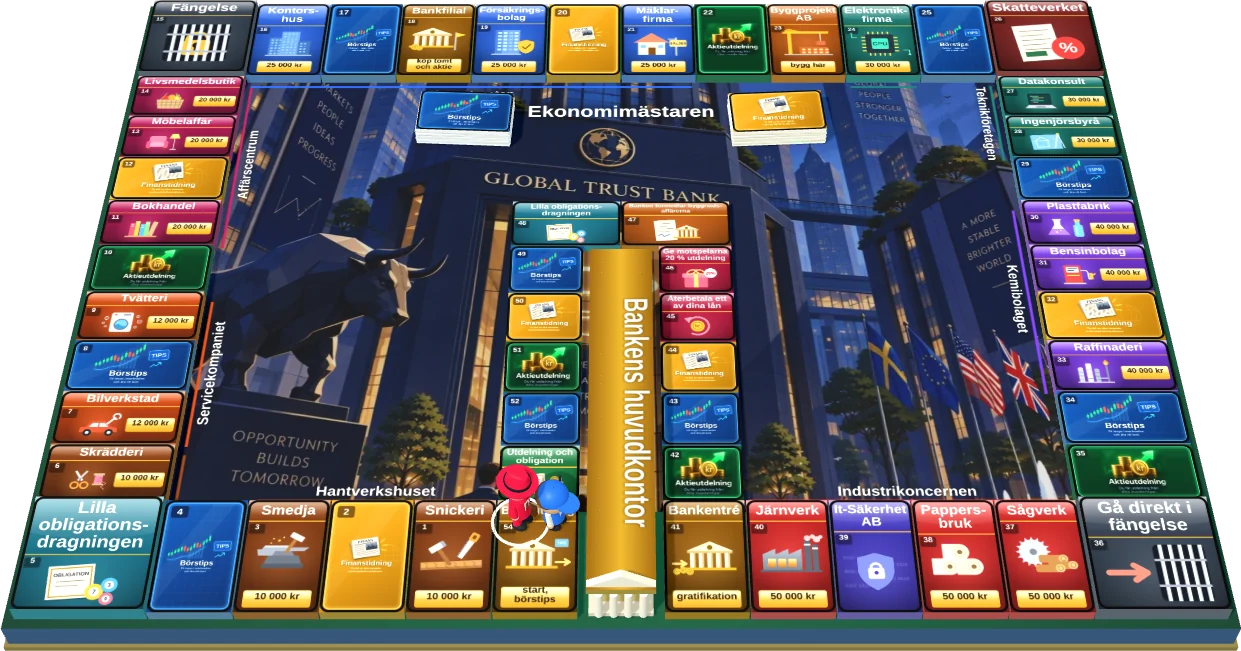
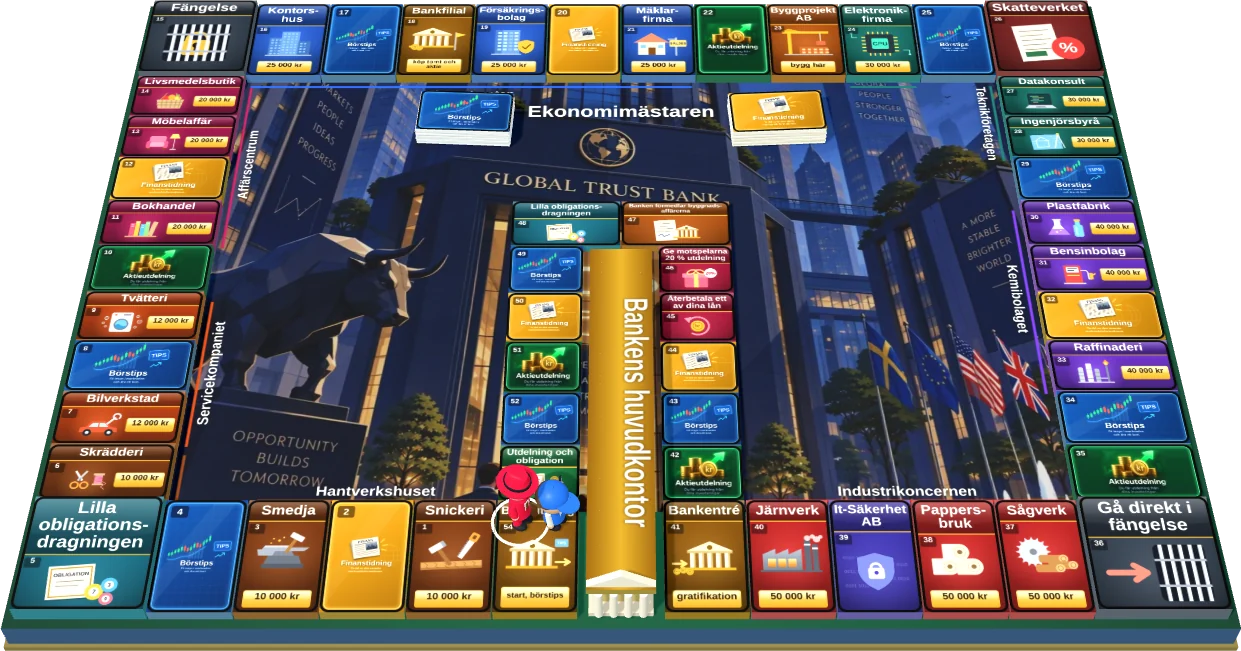
Mörkare namnband på rutorna
Claude-Session: https://claude.ai/code/session_012UEboomqaECNEgSke9QzSg

diff --git a/public/rutbilder.js b/public/rutbilder.js
@@ -106,7 +106,7 @@
     c.save(); c.scale(scale, scale); c.textAlign = 'left'; const wide = W > H * 1.1, corner = W > 180 && H > 180, name = t.name, tight = H <= 110 && name.length > 16, nameMax = corner ? 30 : tight ? 16 : wide ? 22 : 24;
     const nl = nameLines(c, name, W - (wide ? 14 : 12), tight ? 2 : name.length > 16 ? 3 : 2, nameMax, 10), lh = nl.size * 1.03, band = Math.max(wide ? 26 : 38, nl.lines.length * lh + (wide ? 8 : 12)), body = c.createLinearGradient(0, band, 0, H);
     body.addColorStop(0, shadeHex(t.col, -0.22)); body.addColorStop(1, shadeHex(t.col, -0.56)); c.fillStyle = body; c.fillRect(0, 0, W, H);
-    const head = c.createLinearGradient(0, 0, 0, band); head.addColorStop(0, shadeHex(t.col, 0.2)); head.addColorStop(1, shadeHex(t.col, -0.2)); c.fillStyle = head; c.fillRect(0, 0, W, band); c.fillStyle = '#e2b23a'; c.fillRect(0, band, W, 2);
+    const head = c.createLinearGradient(0, 0, 0, band); head.addColorStop(0, shadeHex(t.col, -0.28)); head.addColorStop(1, shadeHex(t.col, -0.58)); c.fillStyle = head; c.fillRect(0, 0, W, band); c.fillStyle = '#e2b23a'; c.fillRect(0, band, W, 2);
     // Prislapp eller undertext, under motivet på höga rutor och till höger på breda.
     const tag = t.price || t.sub || '', tagW = wide ? Math.min(W * 0.4, 78) : Math.min(W - 14, 104), tagH = tag.length > 14 ? 36 : wide ? 28 : 30, side = wide && tag;
     const mx = wide ? (side ? 30 : 8) : 8, my = band + 5, mw = W - mx - (side ? tagW + 12 : 8), mh = H - band - 9 - (!wide && tag ? tagH + 8 : 0), k = Math.min(mw / 200, mh / 130), cx = mx + mw / 2, cy = my + mh / 2;
@@ -116,7 +116,7 @@
     if (tag) { const px = wide ? W - tagW - 8 : (W - tagW) / 2, py = wide ? band + (H - band - tagH) / 2 + 1 : H - tagH - 8, sz = nameLines(c, tag, tagW - 8, 2, tag.length > 14 ? 13 : wide ? 14 : 16, 9), g = c.createLinearGradient(0, py, 0, py + tagH); g.addColorStop(0, '#ffe07a'); g.addColorStop(1, '#d9a11f'); Rc(c, px, py, tagW, tagH, 4, g); const tg = c.createLinearGradient(0, py, 0, py + tagH * 0.55); tg.addColorStop(0, 'rgba(255,255,255,.75)'); tg.addColorStop(1, 'rgba(255,255,255,.08)'); Rc(c, px + 2, py + 1.5, tagW - 4, tagH * 0.46, 3, tg); c.fillStyle = '#231703'; c.font = `900 ${sz.size}px ${FONT}`; const ll = sz.size * 1.02; let ty = py + tagH / 2 - (sz.lines.length - 1) * ll / 2 + 0.5; sz.lines.forEach((l) => { c.fillText(l, px + tagW / 2, ty); ty += ll; }); }
     const bw = 25, bh = 18, bx = 6, by = band + 6; Rc(c, bx, by, bw, bh, 3, 'rgba(0,0,0,.45)'); c.fillStyle = '#fff'; c.font = `800 13px ${FONT}`; c.fillText(t.no, bx + bw / 2, by + bh / 2 + 0.5); c.textBaseline = 'alphabetic';
     // Glans: blank yta över namnet och en kant som fångar ljuset.
-    const top = c.createLinearGradient(0, 0, 0, band); top.addColorStop(0, 'rgba(255,255,255,.5)'); top.addColorStop(0.55, 'rgba(255,255,255,.1)'); top.addColorStop(1, 'rgba(255,255,255,0)'); c.fillStyle = top; c.beginPath(); c.moveTo(0, 0); c.lineTo(W, 0); c.lineTo(W, band * 0.62); c.quadraticCurveTo(W / 2, band * 0.86, 0, band * 0.62); c.closePath(); c.fill();
+    const top = c.createLinearGradient(0, 0, 0, band); top.addColorStop(0, 'rgba(255,255,255,.3)'); top.addColorStop(0.55, 'rgba(255,255,255,.06)'); top.addColorStop(1, 'rgba(255,255,255,0)'); c.fillStyle = top; c.beginPath(); c.moveTo(0, 0); c.lineTo(W, 0); c.lineTo(W, band * 0.62); c.quadraticCurveTo(W / 2, band * 0.86, 0, band * 0.62); c.closePath(); c.fill();
     const e = c.createLinearGradient(0, 0, 0, H); e.addColorStop(0, 'rgba(255,255,255,.85)'); e.addColorStop(0.3, 'rgba(255,255,255,.12)'); e.addColorStop(0.8, 'rgba(255,255,255,.05)'); e.addColorStop(1, 'rgba(255,255,255,.45)'); c.strokeStyle = e; c.lineWidth = 1.5; rounded(c, 3, 3, W - 6, H - 6, 10); c.stroke();
     c.restore();
   };
